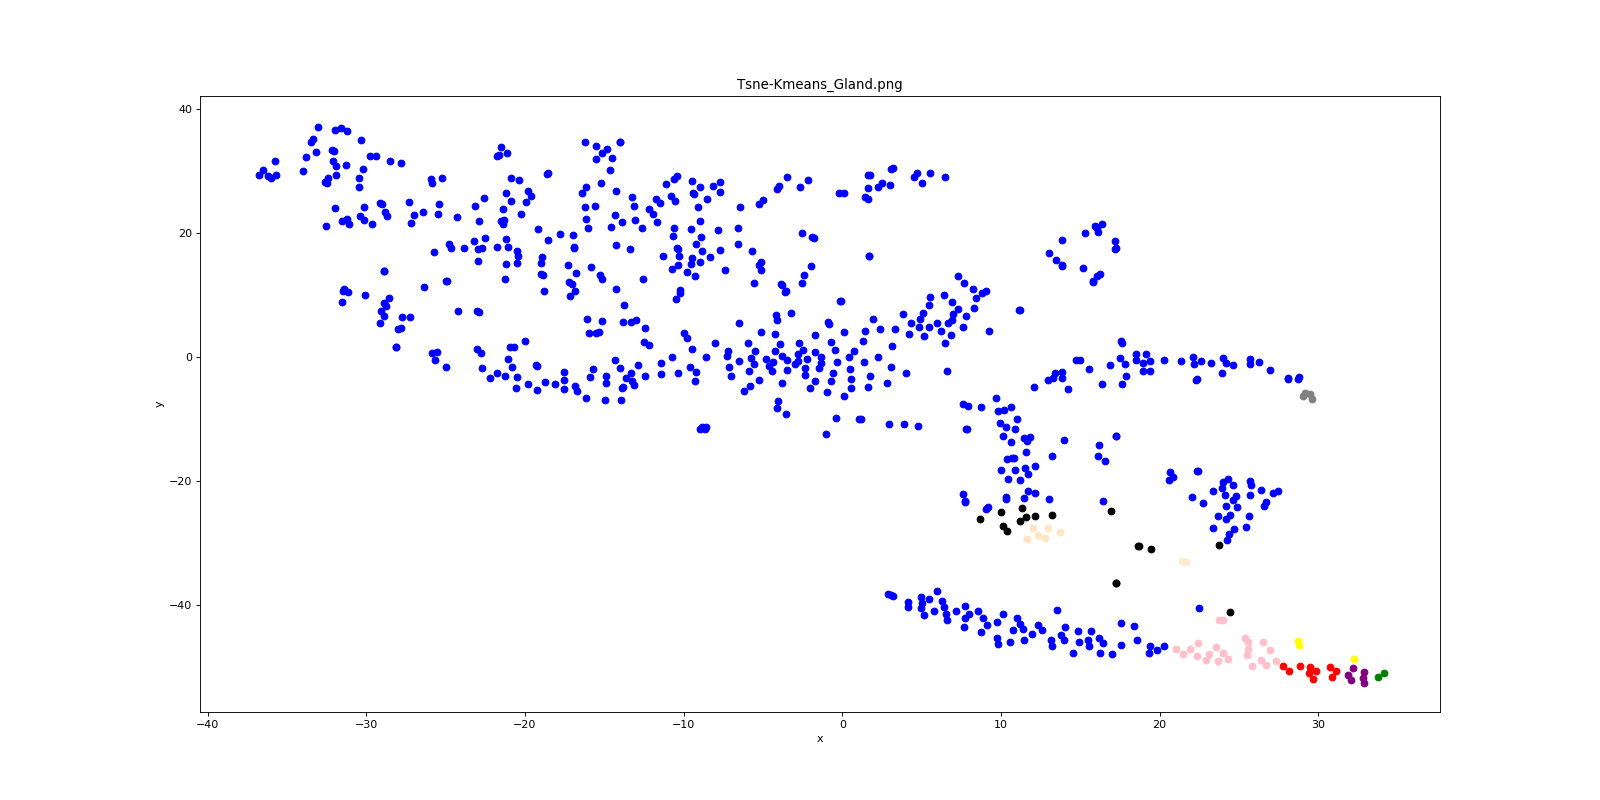
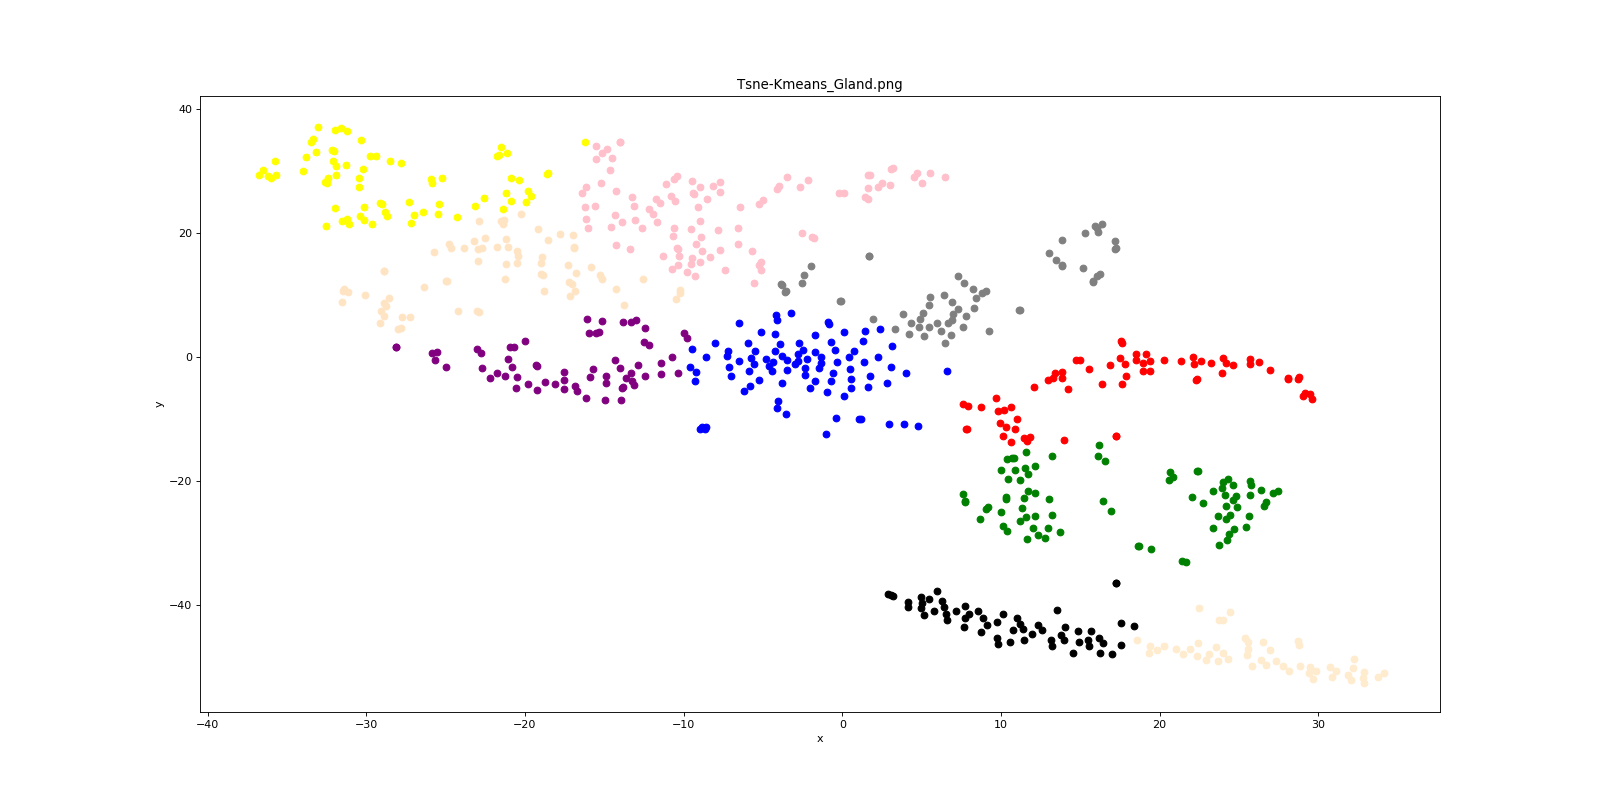
plot something and add a one-click method

diff --git a/autoencoder.py b/autoencoder.py
@@ -5,7 +5,7 @@ import numpy as np
 import time
 
 def getData(filepath):
-    return data_helper.data(filepath).getMatrix()
+    return data_helper.loadTSV(filepath)
 
 def dataPreprocess(matrix):
     # normalized data to be between [-1, 1]
@@ -14,7 +14,7 @@ def dataPreprocess(matrix):
     # convert from float64 to float32
     return np.float32((matrix - mean_val)/max_val)
 
-def train(filepath, learning_rate, batch_size, epoch):
+def train(filepath, model_path, learning_rate, batch_size, epoch):
     # load data
     myMatrix = dataPreprocess(getData(filepath))
     input_length = myMatrix.shape[1]
@@ -23,7 +23,7 @@ def train(filepath, learning_rate, batch_size, epoch):
     start = time.time()
 
     # open console
-    console = open('train_console.txt', "w")
+    console = open(model_path + 'train_console.txt', "w")
 
     # set layer neural numbers
     layer1_num = 512
@@ -79,11 +79,11 @@ def train(filepath, learning_rate, batch_size, epoch):
         plt.xlabel("epoch")
         plt.ylabel("loss")
         plt.title("loss VS. epoch")
-        fig.savefig("loss_epoch.png")
+        fig.savefig(model_path + "loss_epoch.png")
 
         # save the model
         saver = tf.train.Saver()
-        save_path = saver.save(sess, "./model/model.ckpt")
+        save_path = saver.save(sess, model_path + "model.ckpt")
 
         # test
         test_matrix = getTestData(myMatrix)
@@ -97,7 +97,7 @@ def train(filepath, learning_rate, batch_size, epoch):
         console.write("The model is saved in path: %s\n" % save_path)
 
     # end time
-    end =time.time()
+    end = time.time()
     console.write("it takes {} minutes to train\n".format((end-start)/60))
 
 def encoder(x, weights, bias):
@@ -162,7 +162,7 @@ def getTrainData(matrix):
 def getTestData(matrix):
     return np.concatenate((matrix[1:101:2], matrix[850:]), axis=0)
 
-def getLatentSpace(filepath, model):
+def getLatentSpace(filepath, target_path, model_dir):
     # load data
     myMatrix = dataPreprocess(getData(filepath))
     input_length = myMatrix.shape[1]
@@ -178,11 +178,11 @@ def getLatentSpace(filepath, model):
     bias = setBias(input_length, layer1_num, layer2_num, layer3_num, layer4_num)
 
     # load model
-    saver=tf.train.Saver()
+    saver = tf.train.Saver()
     with tf.Session() as sess:
-        saver.restore(sess, model)
+        saver.restore(sess, model_dir + "model.ckpt")
         latentSpace = encoder(myMatrix, weights, bias)
-        np.savetxt("latentSpace.txt", latentSpace.eval(), delimiter="\t")
+        np.savetxt(target_path + "latentSpace.txt", latentSpace.eval(), delimiter="\t")
 
 if __name__ == "__main__":
     #train("./data/Airway.tsv", learning_rate=0.1, batch_size=100, epoch=1000)

diff --git a/trial.py b/trial.py
@@ -1,0 +1,44 @@
+import plot
+import data_helper
+import cluster
+import autoencoder
+import os
+
+
+def trial(filepath, mingene, mincell):
+    # make dir
+    data_dir = "./data/" + "mincell=" + str(mincell) + "_mingene=" + str(mingene) + "/"
+    graph_dir = "./process_images/" + "mincell=" + str(mincell) + "_mingene=" + str(mingene) + "/"
+    model_dir = './model/' + "mincell=" + str(mincell) + "_mingene=" + str(mingene) + "/"
+    if not os.path.exists(data_dir):
+        os.makedirs(data_dir)
+    if not os.path.exists(graph_dir):
+        os.makedirs(graph_dir)
+    if not os.path.exists(model_dir):
+        os.makedirs(model_dir)
+
+    # filter data
+    filter = data_dir + "filtered.txt"
+    data_helper.getScanpy(filepath, filter, mincells=mincell, mingenes=mingene)
+
+    # generate tsne
+    plot.getTsne(filter, graph_dir + "tsne.png")
+
+    # generate kmeans
+    cluster.kmeans(filter, graph_dir + "tsne with kmeans.png")
+
+    # train the autoencoder
+    autoencoder.train(filter, model_dir, learning_rate=0.1, batch_size=100, epoch=800)
+    autoencoder.getLatentSpace(filter, data_dir, model_dir)
+    latent = data_dir + "latentSpace.txt"
+
+    # generate graphs for latent space
+    # generate tsne
+    plot.getTsne(latent, graph_dir + "tsne_latent.png")
+
+    # generate kmeans
+    cluster.kmeans(latent, graph_dir + "tsne with kmeans_latent.png")
+
+
+if __name__ == "__main__":
+    trial("./data/transposed_Airway.csv", mincell=10, mingene=100)

diff --git a/data_helper.py b/data_helper.py
@@ -34,17 +34,17 @@ class data(object):
     def saveTransposed(self, filename):
         self.df.to_csv(filename)
 
-    def getScanpy(self, filename, target, mingenes, mincells):
-        adata = sc.read_csv(filename)
+def getScanpy(filename, target, mingenes, mincells):
+    adata = sc.read_csv(filename)
 
-        # filter out insignificant cells
-        sc.pp.filter_cells(adata, min_genes=mingenes)
+    # filter out insignificant cells
+    sc.pp.filter_cells(adata, min_genes=mingenes)
 
-        # filter out insignificant genes
-        sc.pp.filter_genes(adata, min_cells=mincells)
+    # filter out insignificant genes
+    sc.pp.filter_genes(adata, min_cells=mincells)
 
-        # save to file
-        np.savetxt(target, adata.X, delimiter="\t")
+    # save to file
+    np.savetxt(target, adata.X, delimiter="\t")
 
 def loadTSV(filename):
     return pd.read_table(filename).values

diff --git a/cluster.py b/cluster.py
@@ -1,12 +1,16 @@
 from sklearn.cluster import KMeans
 from plot import getTsne
-import numpy as np
+from sklearn.manifold import TSNE
 from data_helper import loadTSV
 
-def kmeans(filename, target_name, clusters):
-    matrix = loadTSV(filename)
+def kmeans(filename, target_name, clusters=8):
+    matrix = tsne(filename)
     k = KMeans(n_clusters=clusters).fit_predict(matrix)
     getTsne(filename, target_name, k)
+
+def tsne(filepath):
+    return TSNE(random_state=0).fit_transform(loadTSV(filepath))
+
 
 if __name__ == "__main__":
     kmeans("./data/filtered_Gland.txt", "Tsne-Kmeans_Gland.png", 10)

diff --git a/plot.py b/plot.py
@@ -43,7 +43,7 @@ def getTsne(filepath, filename, cluster_label=[]):
     plt.title(filename)
     plt.xlabel('x')
     plt.ylabel('y')
-    fig.savefig("./process_images/" + filename)
+    fig.savefig(filename)
 
 if __name__ == "__main__":
     getTsne("./data/filtered_Gland.txt", "Tsne_Gland.png")
